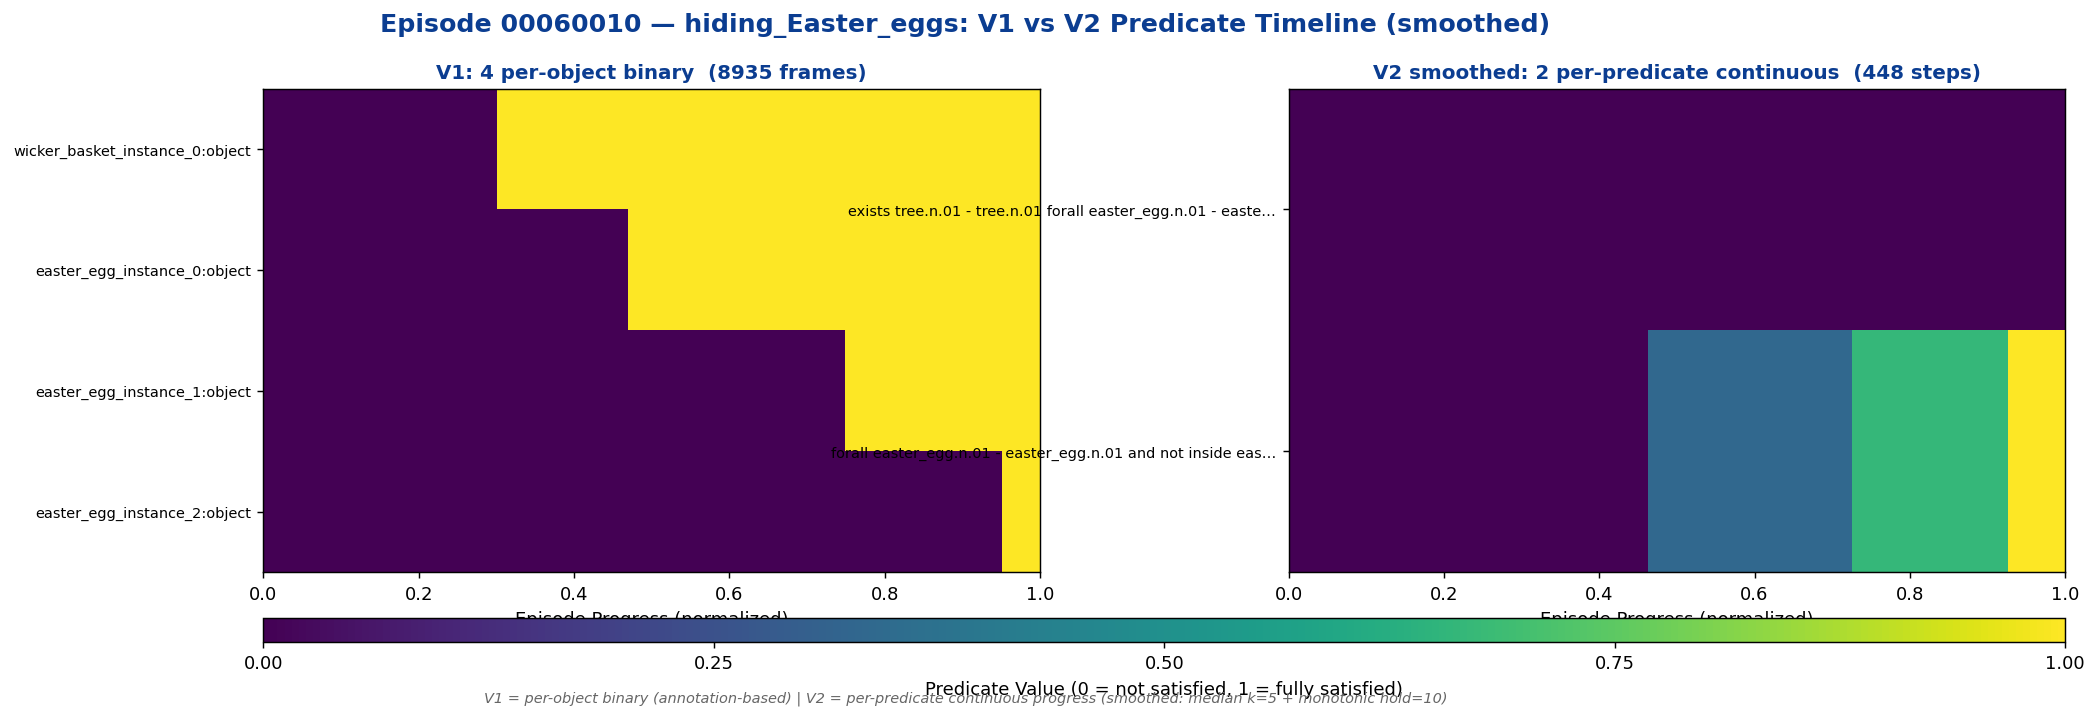
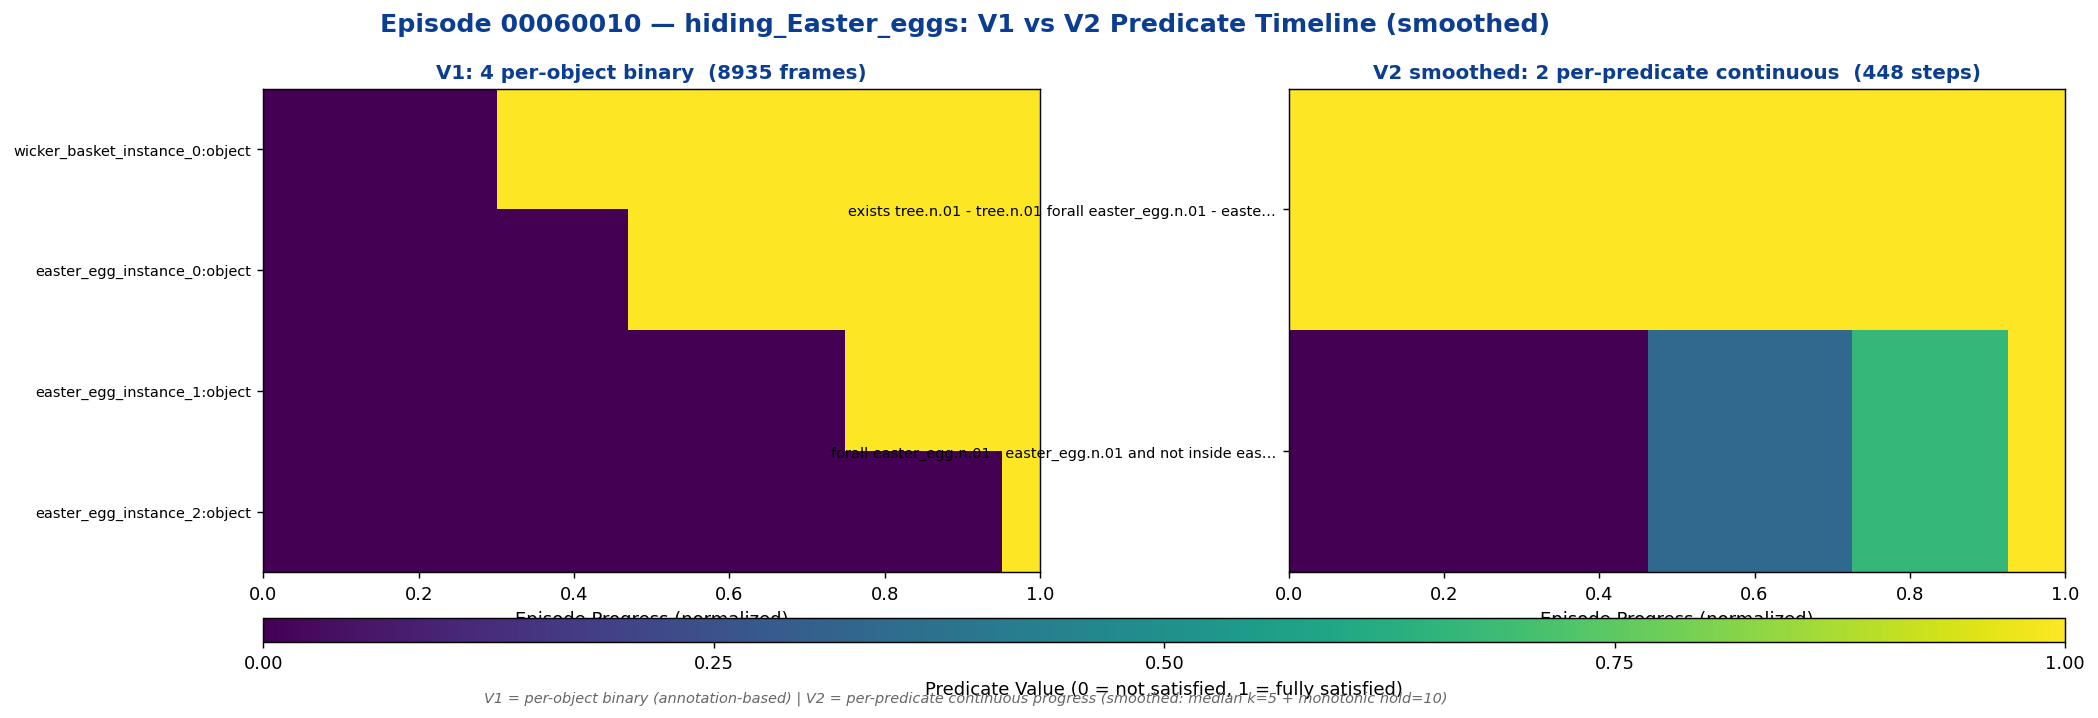
fix: exists takes max over instances; verified all 73 predicates — 64 untouched, 9 minor smoothing (<4%)

Changed region(s): [[0.5887, 0.1226, 0.9914, 0.4596]]

diff --git a/smooth_predicates.py b/smooth_predicates.py
@@ -30,14 +30,20 @@ def pred_value(p):
         c, thr = p.get("count"), p.get("threshold")
         if c is not None and thr and thr > 0:
             return float(np.clip(c / thr, 0.0, 1.0))
-    # For exists / atomic / not — also check for nested quantifier progress
+    # For exists / atomic / not — check nested quantifier progress.
+    # For exists: take the MAX across all instances (exists = "any one suffices").
     if "instances" in p:
+        best = None
         for inst in p["instances"].values():
             nested = inst.get("nested")
             if nested and nested.get("type") in ("forall", "forn", "forpairs"):
                 c, thr = nested.get("count"), nested.get("threshold")
                 if c is not None and thr and thr > 0:
-                    return float(np.clip(c / thr, 0.0, 1.0))
+                    v = float(np.clip(c / thr, 0.0, 1.0))
+                    if best is None or v > best:
+                        best = v
+        if best is not None:
+            return best
     return 1.0 if p.get("satisfied") else 0.0
 
 

diff --git a/make_plots_smoothed.py b/make_plots_smoothed.py
@@ -53,12 +53,17 @@ def pred_value(p):
         if c is not None and thr and thr > 0:
             return float(np.clip(c / thr, 0.0, 1.0))
     if "instances" in p:
+        best = None
         for inst in p["instances"].values():
             nested = inst.get("nested")
             if nested and nested.get("type") in ("forall", "forn", "forpairs"):
                 c, thr = nested.get("count"), nested.get("threshold")
                 if c is not None and thr and thr > 0:
-                    return float(np.clip(c / thr, 0.0, 1.0))
+                    v = float(np.clip(c / thr, 0.0, 1.0))
+                    if best is None or v > best:
+                        best = v
+        if best is not None:
+            return best
     return 1.0 if p.get("satisfied") else 0.0
 
 
